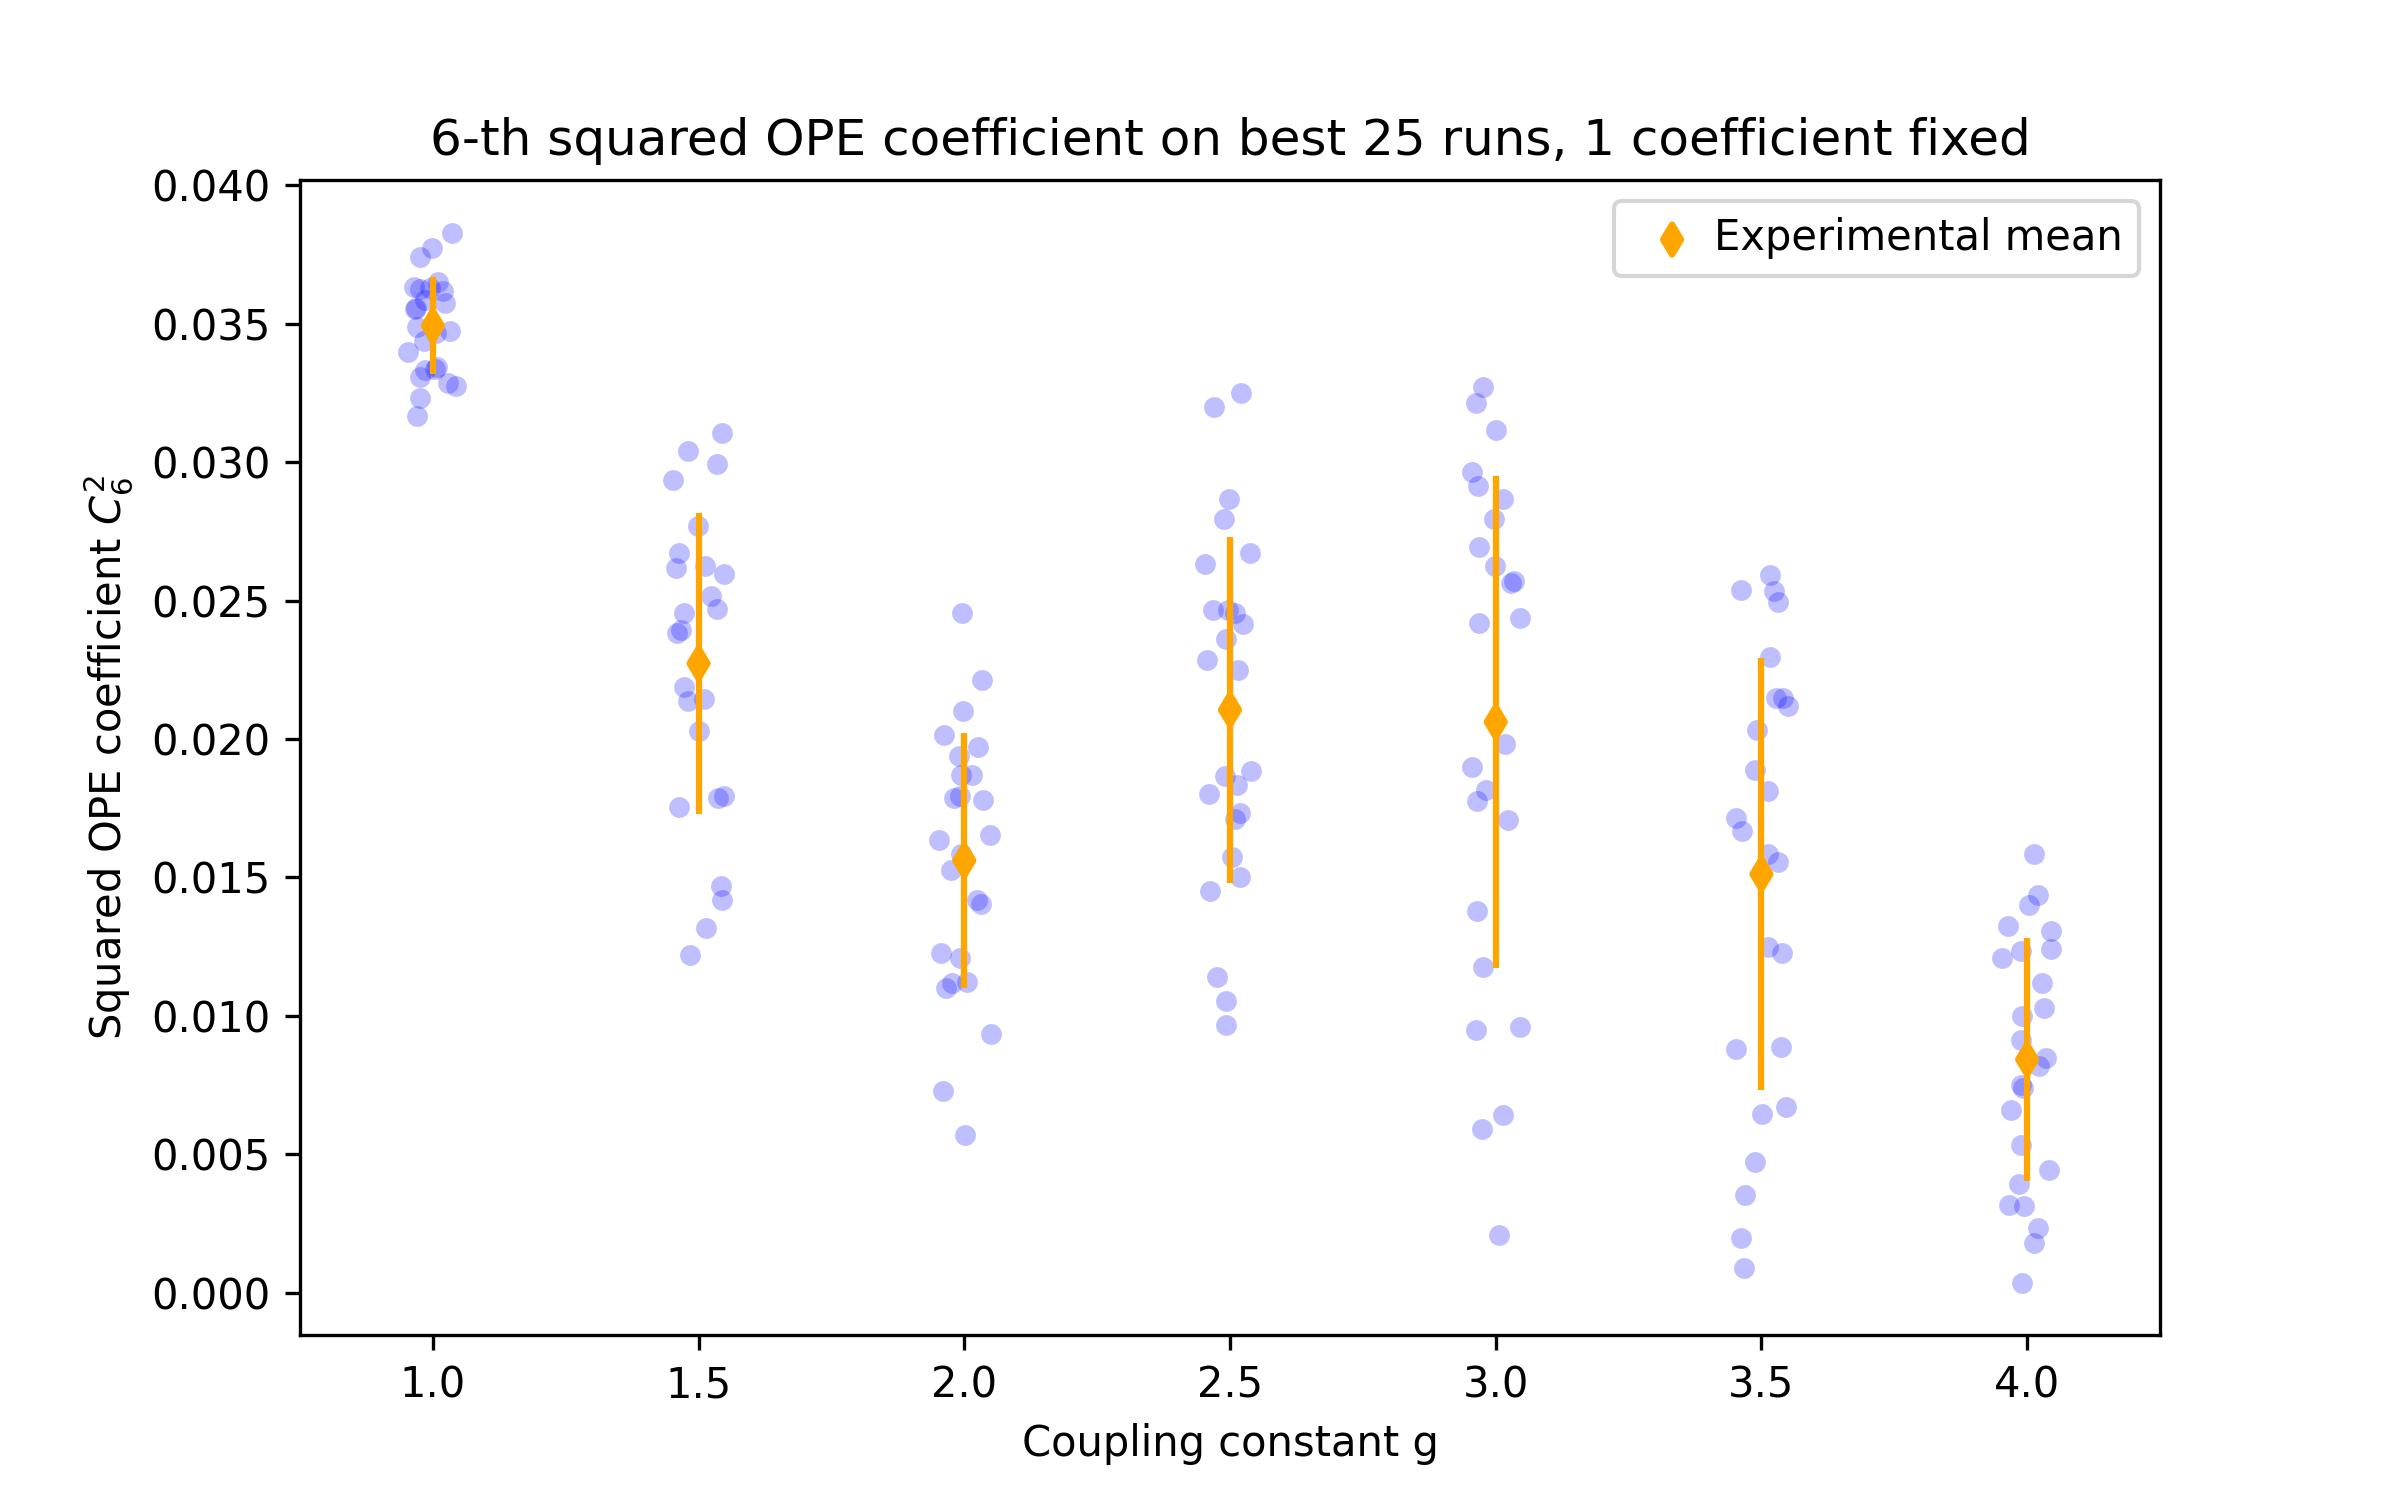
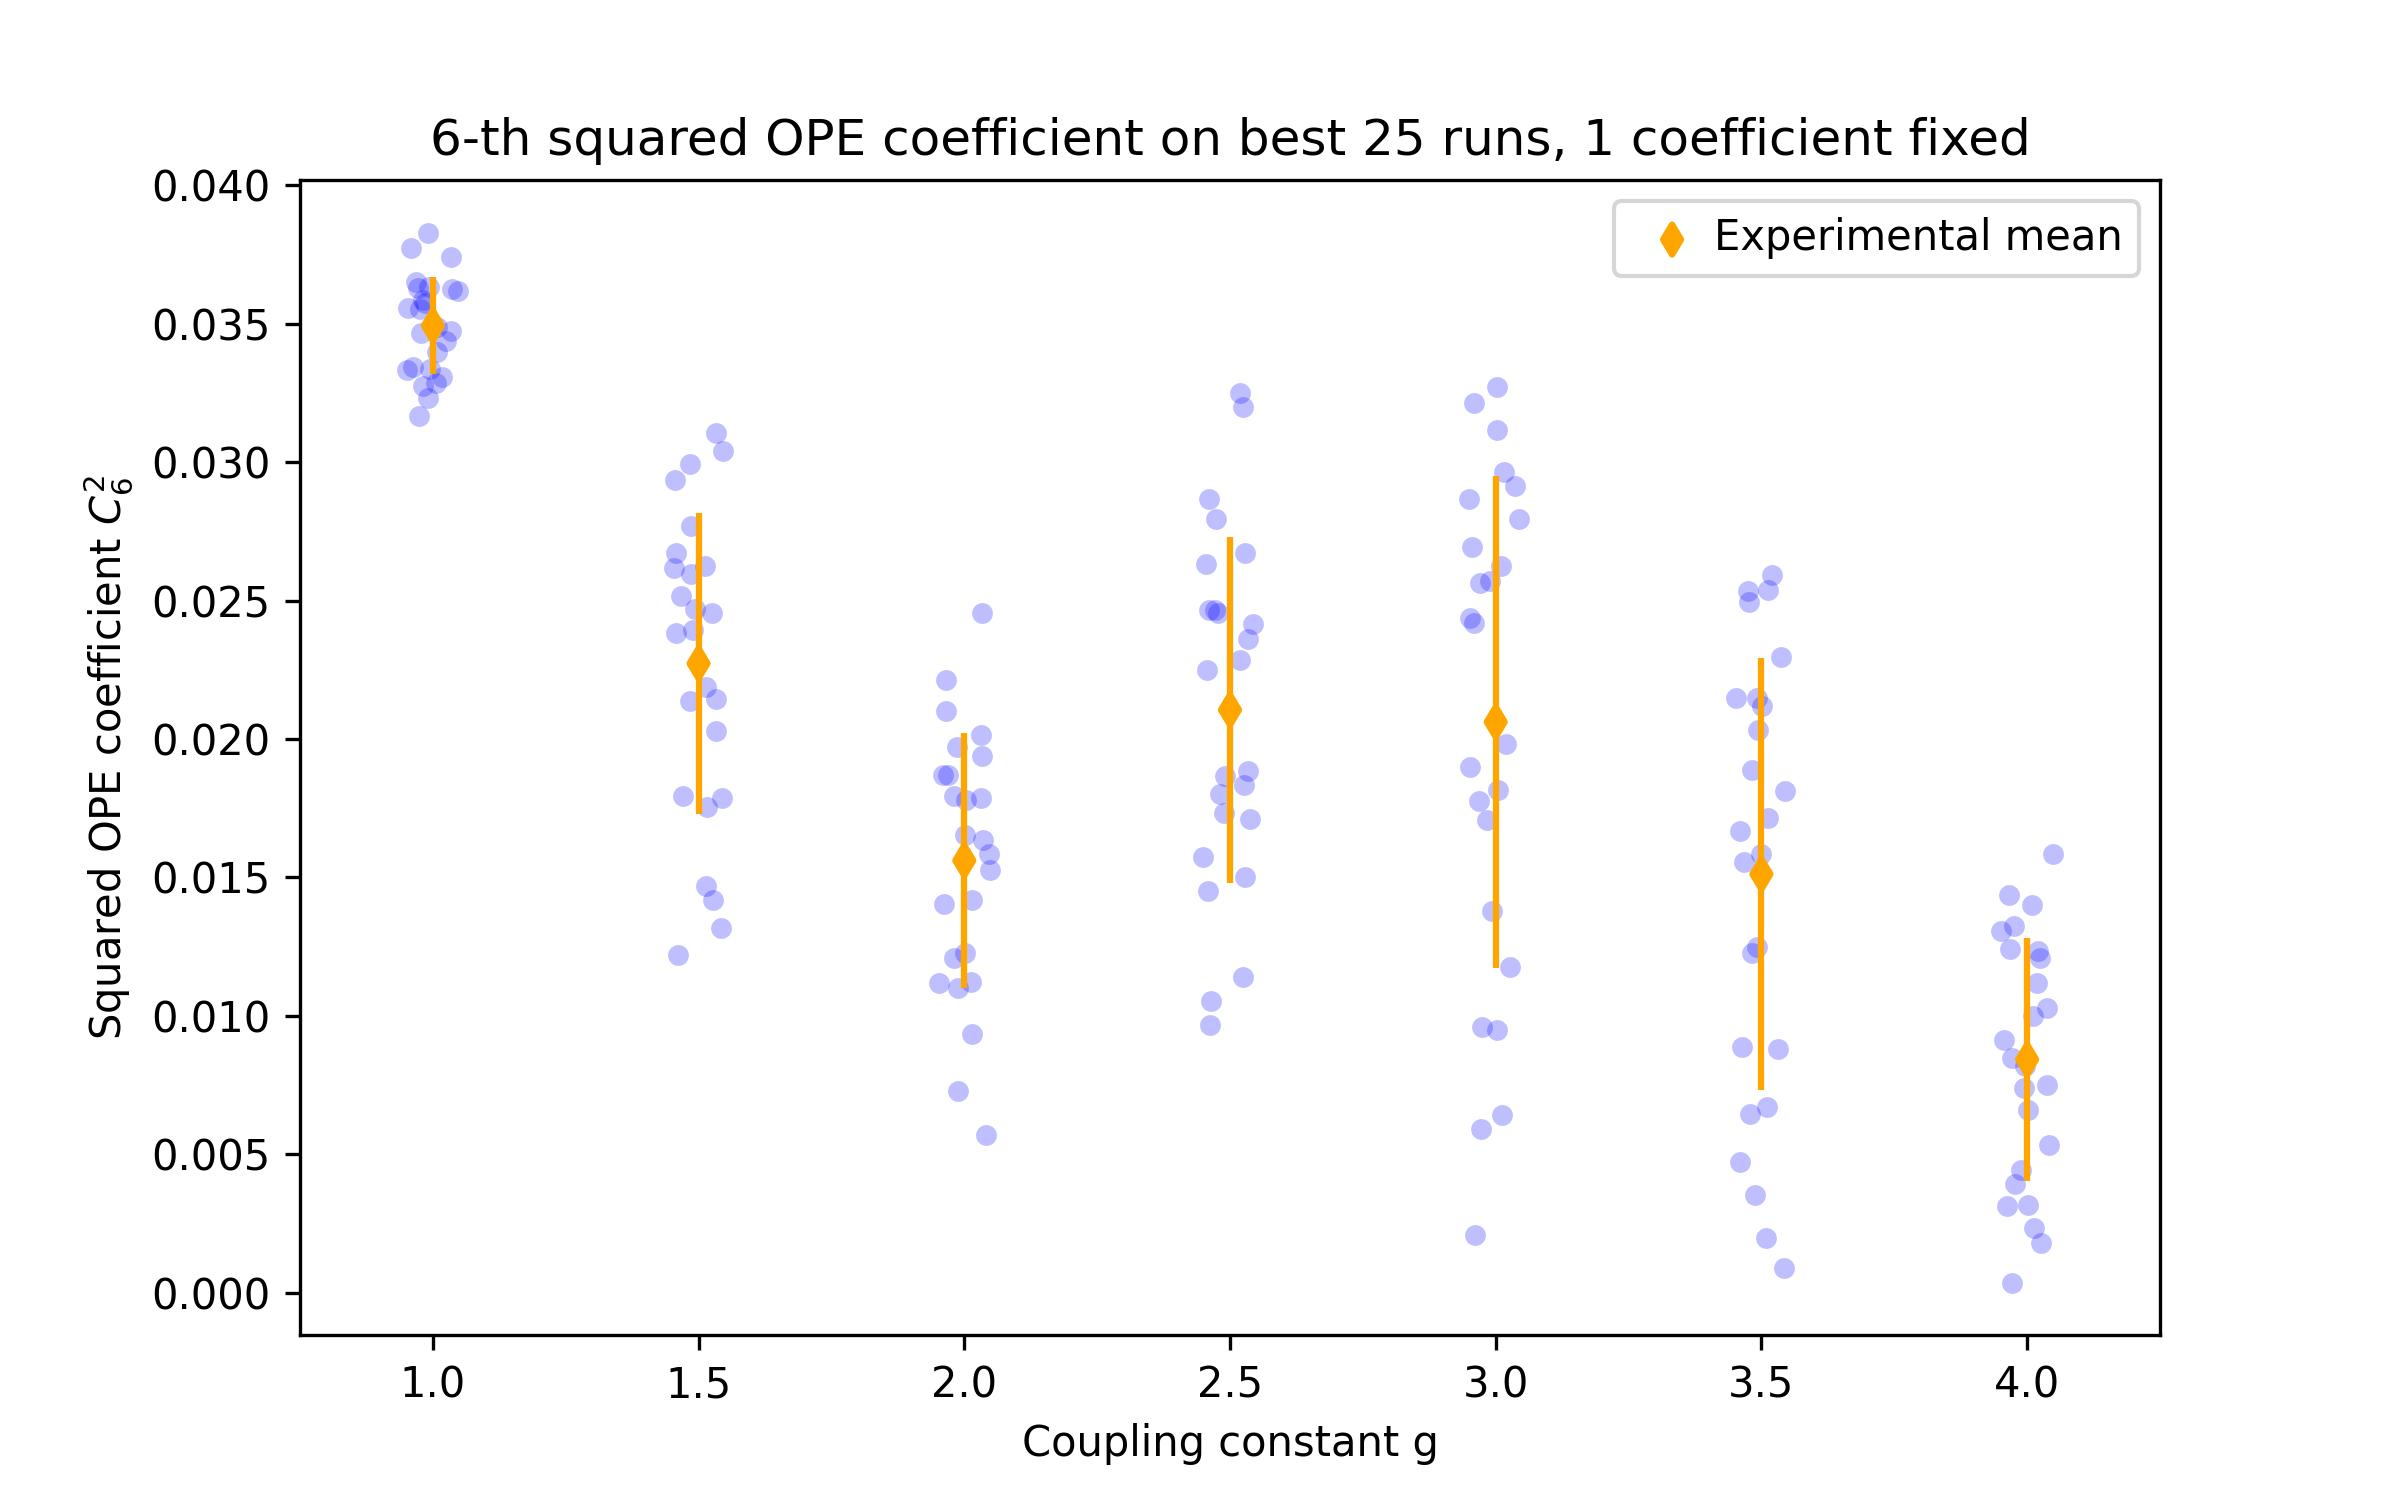
Updated some graphs

diff --git a/analyze_BPS_results.py b/analyze_BPS_results.py
@@ -9,39 +9,39 @@ import os
 import re
 
 
-OPE_first = 9
-OPE_second = 10
+OPE_first = 5
+OPE_second = 6
 best_rew_to_take = 25
 best_reward = 0.
 delta_len = 10
 lambda_len = 10
 lambda_fix = 1
-analysis_path = 'BPS_analyzed_results_weak'
-g_list = [0.05, 0.1, 0.15, 0.2, 0.25, 0.3, 0.35, 0.4, 0.45, 0.5, 0.6, 0.7, 0.8, 0.9, 1.]
-#g_list = [1., 1.5, 2., 2.5, 3., 3.5, 4.]
+analysis_path = 'BPS_analyzed_results'
+#g_list = [0.05, 0.1, 0.15, 0.2, 0.25, 0.3, 0.35, 0.4, 0.45, 0.5, 0.6, 0.7, 0.8, 0.9, 1.]
+g_list = [1., 1.5, 2., 2.5, 3., 3.5, 4.]
 #g_list = [0.05, 0.1, 0.15, 0.2, 0.25, 0.3, 0.35, 0.4, 0.45, 0.5, 0.6, 0.7, 0.8, 0.9, 1., 1.5, 2., 2.5, 3., 3.5, 4.]
 path_list = [
-    join('.', 'results_BPS', 'results_BPS_1fix_g005'),
-    join('.', 'results_BPS', 'results_BPS_1fix_g010'),
-    join('.', 'results_BPS', 'results_BPS_1fix_g015'),
-    join('.', 'results_BPS', 'results_BPS_1fix_g020'),
-    join('.', 'results_BPS', 'results_BPS_1fix_g025'),
-    join('.', 'results_BPS', 'results_BPS_1fix_g030'),
-    join('.', 'results_BPS', 'results_BPS_1fix_g035'),
-    join('.', 'results_BPS', 'results_BPS_1fix_g040'),
-    join('.', 'results_BPS', 'results_BPS_1fix_g045'),
-    join('.', 'results_BPS', 'results_BPS_1fix_g05'),
-    join('.', 'results_BPS', 'results_BPS_1fix_g06'),
-    join('.', 'results_BPS', 'results_BPS_1fix_g07'),
-    join('.', 'results_BPS', 'results_BPS_1fix_g08'),
-    join('.', 'results_BPS', 'results_BPS_1fix_g09'),
+    #join('.', 'results_BPS', 'results_BPS_1fix_g005'),
+    #join('.', 'results_BPS', 'results_BPS_1fix_g010'),
+    #join('.', 'results_BPS', 'results_BPS_1fix_g015'),
+    #join('.', 'results_BPS', 'results_BPS_1fix_g020'),
+    #join('.', 'results_BPS', 'results_BPS_1fix_g025'),
+    #join('.', 'results_BPS', 'results_BPS_1fix_g030'),
+    #join('.', 'results_BPS', 'results_BPS_1fix_g035'),
+    #join('.', 'results_BPS', 'results_BPS_1fix_g040'),
+    #join('.', 'results_BPS', 'results_BPS_1fix_g045'),
+    #join('.', 'results_BPS', 'results_BPS_1fix_g05'),
+    #join('.', 'results_BPS', 'results_BPS_1fix_g06'),
+    #join('.', 'results_BPS', 'results_BPS_1fix_g07'),
+    #join('.', 'results_BPS', 'results_BPS_1fix_g08'),
+    #join('.', 'results_BPS', 'results_BPS_1fix_g09'),
     join('.', 'results_BPS', 'results_BPS_3fix_g1'),
-    #join('.', 'results_BPS', 'results_BPS_3fix_g15'),
-    #join('.', 'results_BPS', 'results_BPS_3fix_g2'),
-    #join('.', 'results_BPS', 'results_BPS_3fix_g25'),
-    #join('.', 'results_BPS', 'results_BPS_3fix_g3'),
-    #join('.', 'results_BPS', 'results_BPS_3fix_g35'),
-    #join('.', 'results_BPS', 'results_BPS_3fix_g4')
+    join('.', 'results_BPS', 'results_BPS_3fix_g15'),
+    join('.', 'results_BPS', 'results_BPS_3fix_g2'),
+    join('.', 'results_BPS', 'results_BPS_3fix_g25'),
+    join('.', 'results_BPS', 'results_BPS_3fix_g3'),
+    join('.', 'results_BPS', 'results_BPS_3fix_g35'),
+    join('.', 'results_BPS', 'results_BPS_3fix_g4')
 ]
 experiments = len(path_list)
 
